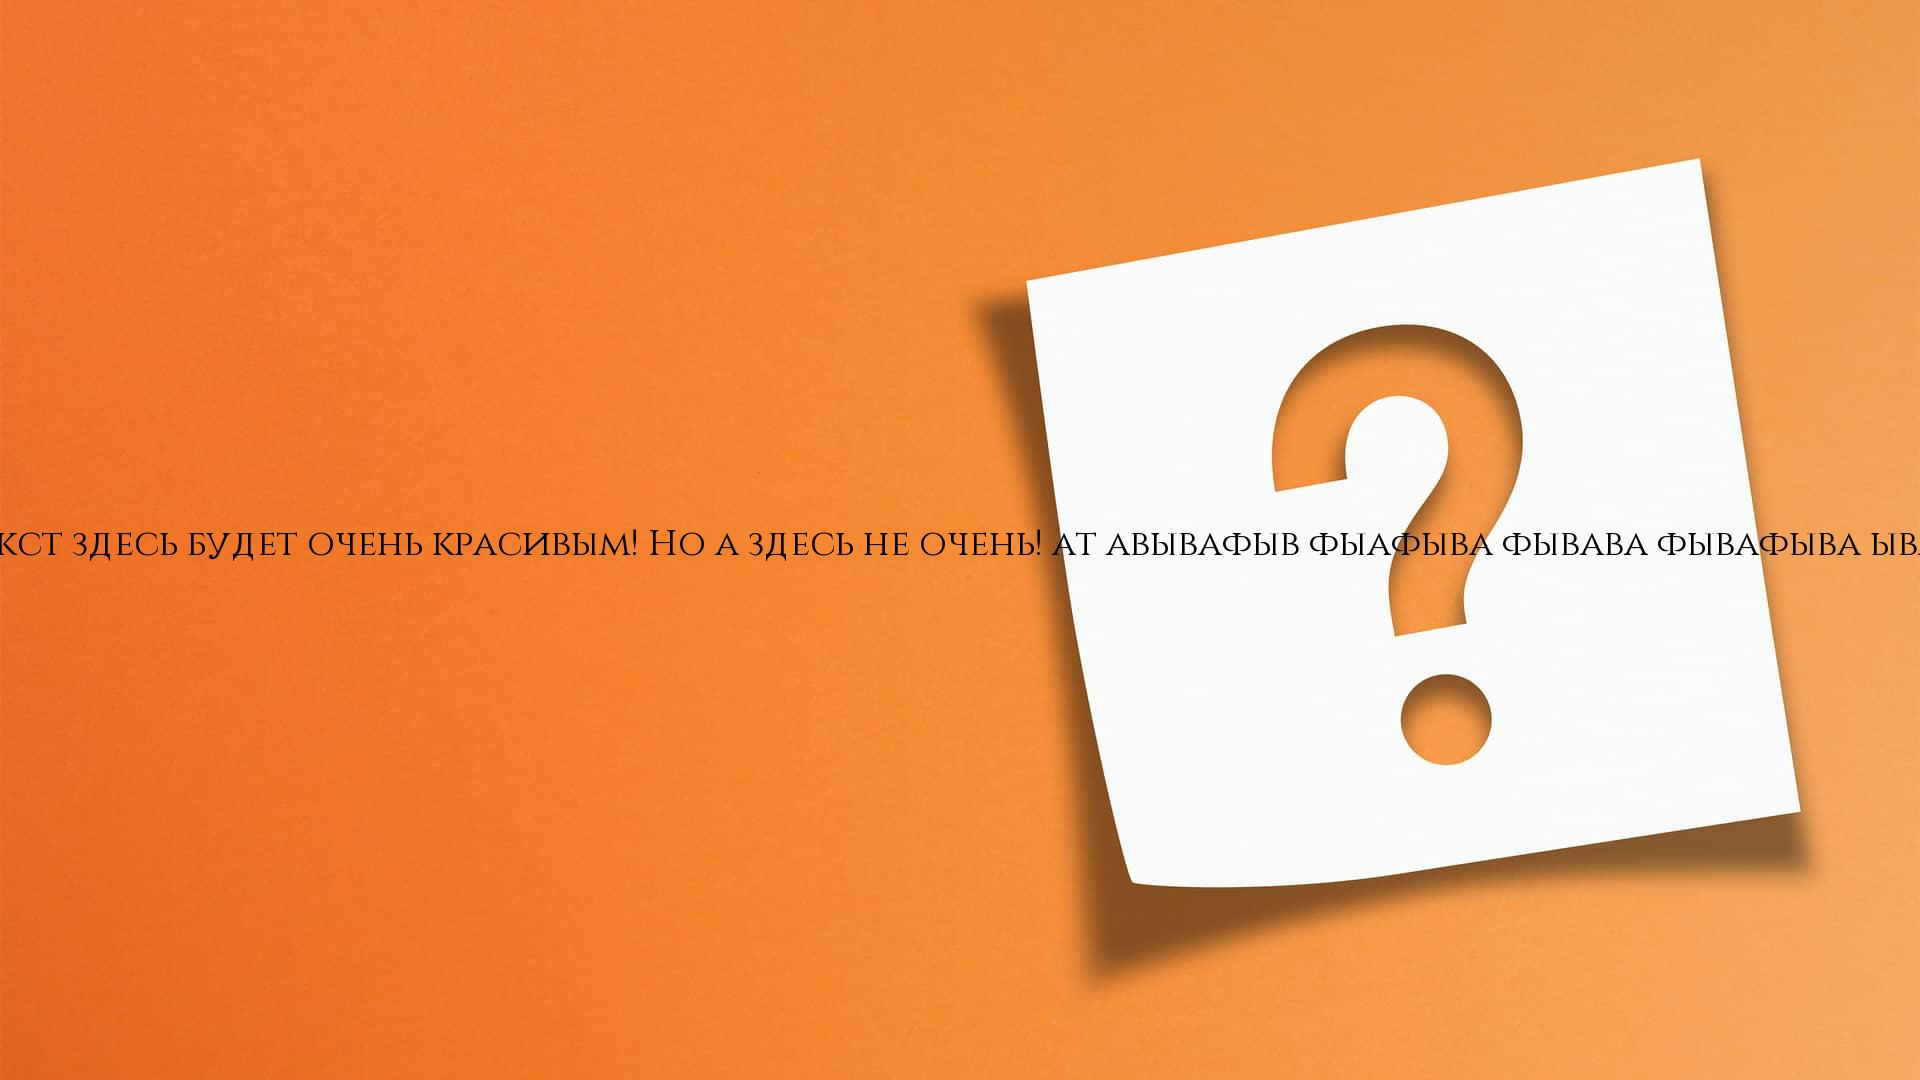
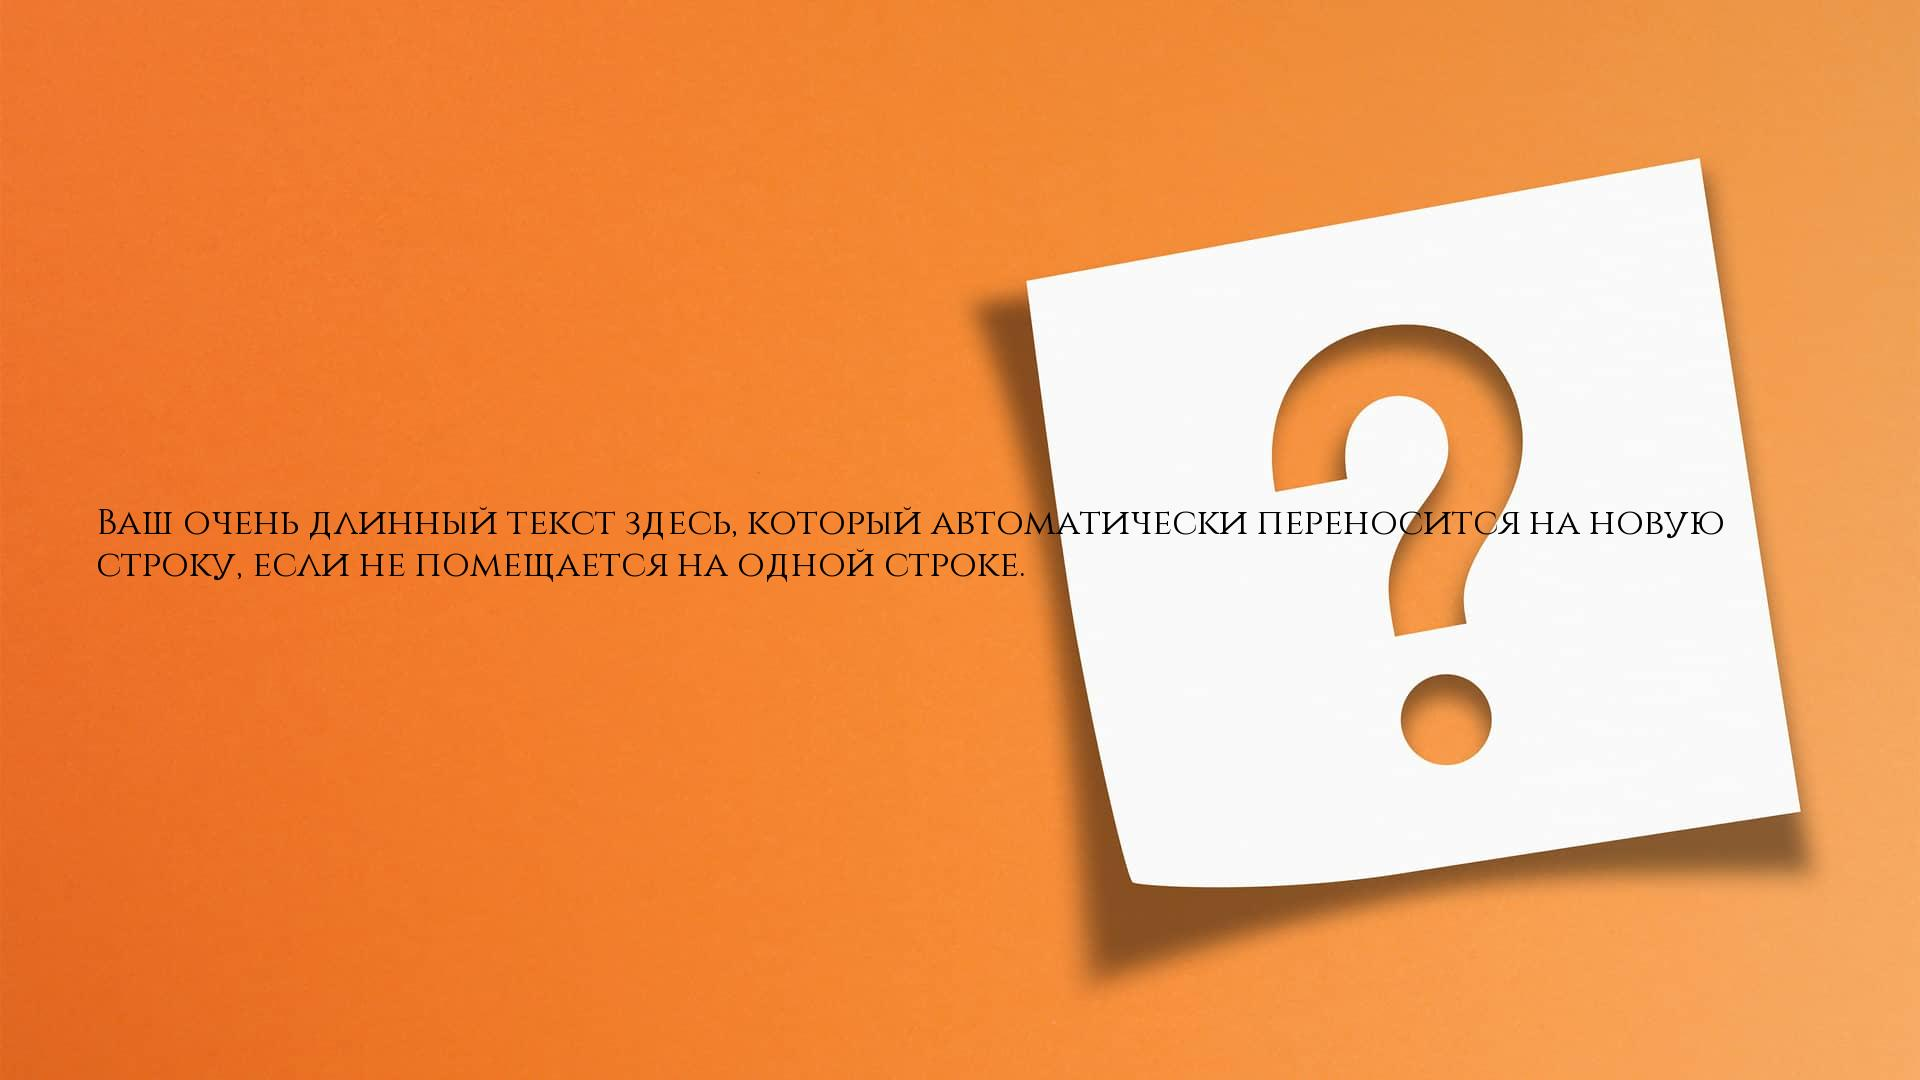
split text by the lines

Changed region(s): [[0.0, 0.4583, 1.0, 0.55]]

diff --git a/image_generator/example.py b/image_generator/example.py
@@ -11,16 +11,37 @@ def add_text_to_image(image_path, text):
     # Задаем шрифт и размер текста
     font = ImageFont.truetype("fonts/cinzel_regular.ttf", 36)  # Укажите путь к файлу шрифта и размер шрифта
 
-    # Вычисляем размер текста
-    text_width, text_height = draw.textsize(text, font)
+    # Определяем максимальную ширину текста (90% ширины изображения)
+    max_text_width = int(image.width * 0.9)
+
+    # Разбиваем текст на строки, учитывая перенос
+    lines = []
+    line = ""
+    for word in text.split():
+        test_line = line + word + " "
+        test_width, _ = draw.textsize(test_line, font)
+        if test_width <= max_text_width:
+            line = test_line
+        else:
+            lines.append(line.rstrip())
+            line = word + " "
+    lines.append(line)
 
     # Определяем координаты для выравнивания текста по центру
+    text_height = 0
+    for line in lines:
+        line_width, line_height = draw.textsize(line, font)
+        text_height += line_height
+
     image_width, image_height = image.size
-    x = (image_width - text_width) // 2
+    x = (image_width - max_text_width) // 2
     y = (image_height - text_height) // 2
 
     # Рисуем текст на изображении
-    draw.text((x, y), text, fill="black", font=font)
+    for line in lines:
+        line_width, line_height = draw.textsize(line, font)
+        draw.text((x, y), line, fill="black", font=font)
+        y += line_height
 
     # Сохраняем измененное изображение
     image.save("output_image.jpg")  # Укажите путь для сохранения
@@ -28,5 +49,5 @@ def add_text_to_image(image_path, text):
 
 if __name__ == "__main__":
     image_path = "image.jpg"  # Укажите путь к изображению
-    text = "Ваш текст здесь будет очень красивым! Но а здесь не очень! ат авывафыв фыафыва фывава фывафыва ывафыва "  # Укажите свой текст
+    text = "Ваш очень длинный текст здесь, который автоматически переносится на новую строку, если не помещается на одной строке."  # Замените на нужный текст
     add_text_to_image(image_path, text)
